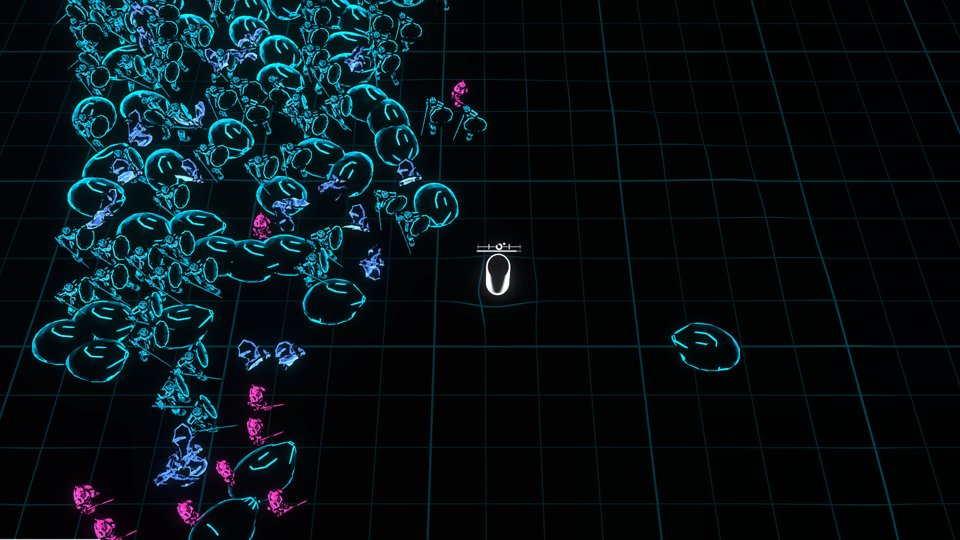
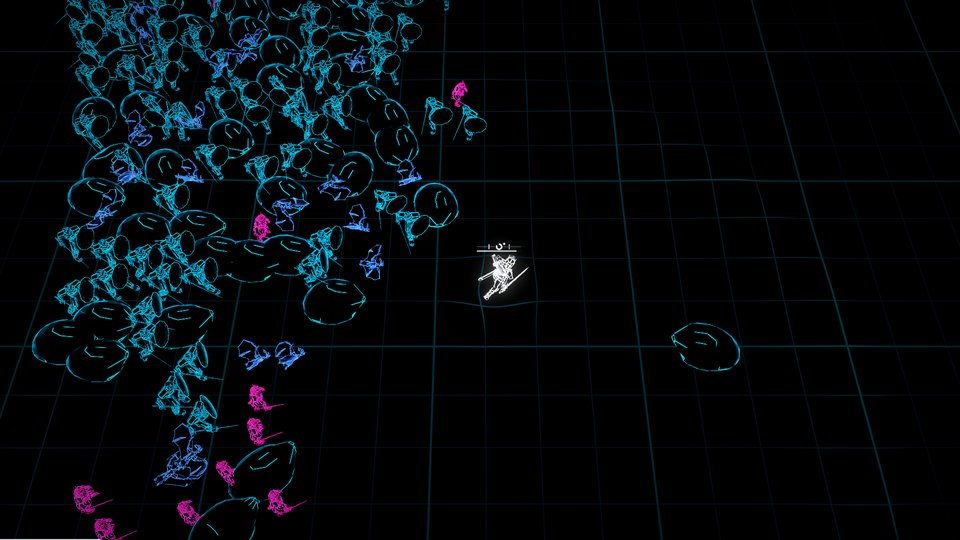
fix(champions): Again builds the next run while the last run's structure shatter scene still unloads: each StructureShatter names its PhysX scene apart (Again threw "Scene with name StructureShatter already exists" and left the run without a presentation since ps-6y2.30); level 1 rechecked in the ed

diff --git a/rhythm_champions/Assets/Champions/Render/Structures/StructureShatter.cs b/rhythm_champions/Assets/Champions/Render/Structures/StructureShatter.cs
@@ -32,6 +32,9 @@ namespace Champions.Render.Structures
 
         static readonly int IdInstances = Shader.PropertyToID("_StructureInstances");
         static readonly int IdPieces = Shader.PropertyToID("_StructurePieces");
+        /// <summary>Physics scenes made so far: each gets a name of its own, for a disposed shatter's scene unloads only
+        /// later and Again builds the next run's in the same frame.</summary>
+        static int _scenesMade;
 
         sealed class Piece
         {
@@ -107,7 +110,7 @@ namespace Champions.Render.Structures
                 _types[i] = s;
             }
             _ownScene = physicsScene == null;
-            _scene = physicsScene ?? SceneManager.CreateScene("StructureShatter", new CreateSceneParameters(LocalPhysicsMode.Physics3D));
+            _scene = physicsScene ?? SceneManager.CreateScene("StructureShatter " + ++_scenesMade, new CreateSceneParameters(LocalPhysicsMode.Physics3D));
             _physics = _scene.GetPhysicsScene();
             _root = new GameObject("StructureShatter");
             SceneManager.MoveGameObjectToScene(_root, _scene);

diff --git a/rhythm_champions/evidence/ps-6y2.21/README.md b/rhythm_champions/evidence/ps-6y2.21/README.md
@@ -5,8 +5,9 @@ sim event wired to its presenter through one `EventDispatch`, scripted
 inputs, the first tuning, sessions replayed in the player, and the level's
 stills in CI. The horde draws in the trailer's edge look through ps-6y2.28's
 crowd (`Client/Crowd/TrailerCrowd.cs` behind the crowd presenter's
-`ICrowdView`; `StandInCrowd` when no monster is baked); the hero, the bosses
-and the structures draw as stand-ins until ps-6y2.29-30 land.
+`ICrowdView`; `StandInCrowd` when no monster is baked); since ps-6y2.29-30
+the knight in white, the bosses in that crowd and the structures in their
+zone's edge colour draw in the run too ([In the run](#in-the-run-in-the-edge-look)).
 
 ## What plays
 
@@ -91,8 +92,9 @@ drop each, 4 s silent gaps), and in the player on real music.
 
 ## In the player
 
-`--fixed-time --walk reference --seed N` headless, about six times faster
-than real time (a 16-minute run in about 2 minutes, stand-ins drawn):
+`--fixed-time --walk reference --seed N` headless, six to ten times faster
+than real time (a 16-minute run in about 2 minutes with the stand-ins these
+seeds were run with, about 90 s in the edge look since ps-6y2.28-30):
 
 - On 24 minutes of the tree's CC songs (`public/reactive/cc-*`), 12 seeds:
   6 reach and beat the Ogre, every one dies in the second half (spores
@@ -110,6 +112,36 @@ between each pair (none after the last):
 ```sh
 just champions-play --headless --fixed-time --file house.m3u --walk reference --seed 4
 ```
+
+## In the run, in the edge look
+
+Rerun on staging 017135bf, after ps-6y2.28-30 put the crowd, the knight, the
+bosses and the structures in the edge look: the victory run's log is the same
+line for line ([victory-run.log](victory-run.log)), with no presenter faults,
+no exception and no stand-in warning (a presenter without its bake logs one).
+Its frames, kept by adding `--capture-stills DIR --stills-at T,...` to the
+command above (T is the app's time, which a fixed-time run's song follows):
+
+| A cottage at 0:20 | The Ogre lands (7:26) | The Ogre breaks (8:39) |
+| --- | --- | --- |
+| ![structure](run-structure.jpg) | ![ogre entrance](run-ogre-entrance.jpg) | ![ogre break](run-ogre-break.jpg) |
+
+| The dragon's duel (14:40) | The dragon breaks (16:06) | The victory card |
+| --- | --- | --- |
+| ![dragon duel](run-dragon-duel.jpg) | ![dragon break](run-dragon-break.jpg) | ![victory](run-victory.jpg) |
+
+**Again was broken by the edge-look structures, now fixed.** Each run's
+structures shatter in a PhysX scene of their own, and a disposed one's scene
+unloads asynchronously, so Again (the old run's presentation disposed and the
+new one's built in the same frame) threw `Scene with name "StructureShatter"
+already exists`: the new run had no presentation and the old one's presenters
+faulted every frame. `StructureShatter` now names each scene apart. Checked
+with a temporary hook (not committed) that pressed Again on the first end
+card of a headless idle run: before the fix, the exception and faults; after,
+run 2 started from the frontier on the same music (song 35.8 s), played to
+its death and showed its card with no faults. The same clash broke the
+`structures` still scene when it followed `level` (CI's `all` plays other
+scenes between them, so it never met it).
 
 ## Replays: the same hash in .NET and in the player
 
@@ -143,12 +175,14 @@ stays near 110 s of its 300 s.
 
 `champions stills --scene level` (in `all`): level 1 through the run's own
 presenters and the reference player on a scripted song, the sim running ahead
-to minute 4: the crowd at minute 4, a loud surge, and a card moment.
+to minute 4: the crowd at minute 4, a loud surge, and a card moment
+(re-rendered at 017135bf: the knight in white among the trailer's crowd).
 
 | Crowd at minute 4 | A loud surge | A card moment |
 | --- | --- | --- |
 | ![crowd](level-crowd.jpg) | ![surge](level-surge.jpg) | ![cards](level-cards.jpg) |
 
-The structure field, beat-wave phases, both duels and the effects gallery
-are the `structures`, `world`, `duel-ogre`, `duel-dragon` and `gallery`
-scenes, all in CI's `stills` step.
+The structure field, beat-wave phases, both duels, both bosses' deaths and
+the effects gallery are the `structures`, `world`, `duel-ogre`,
+`duel-dragon`, `duel-ogre-death`, `duel-dragon-death` and `gallery` scenes,
+all in CI's `stills` step (ps-6y2.29-30 keep their evidence).
